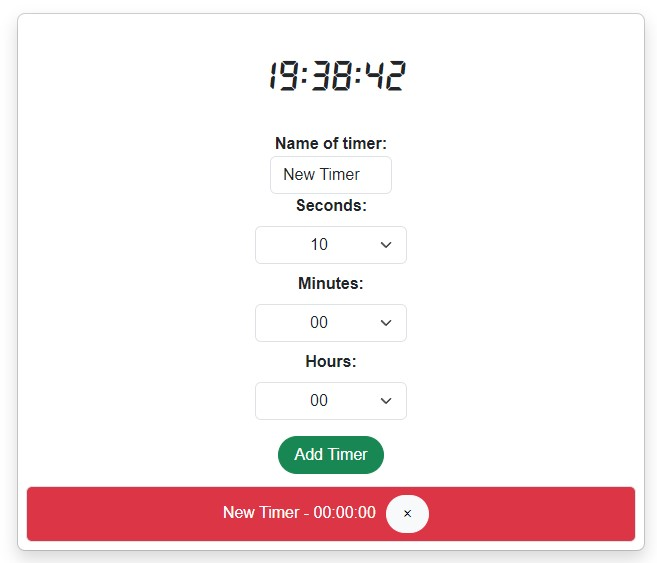
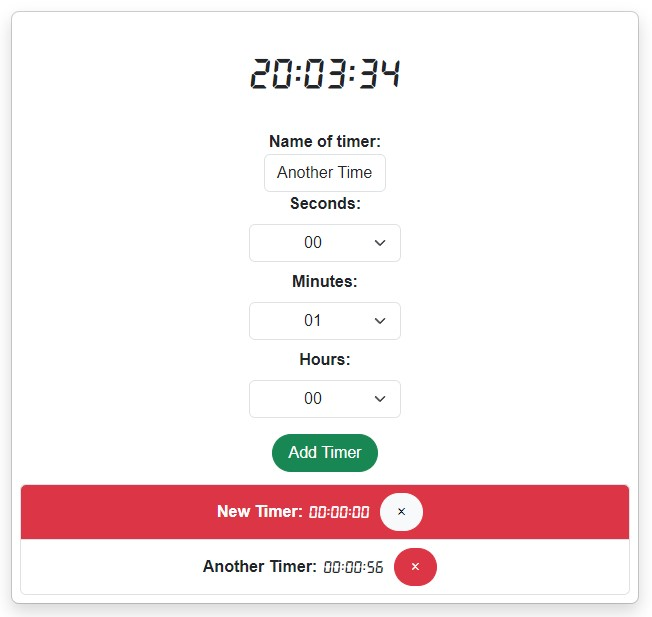
UI updates

diff --git a/src/Timer.js b/src/Timer.js
@@ -1,4 +1,5 @@
 import React, { useState, useEffect } from 'react';
+import './timer.css'
 
 const Timer = (props) => {
   const { timer, removeTimer } = props;
@@ -39,12 +40,12 @@ const Timer = (props) => {
     removeTimer(timer.id);
   };
 
-  const classNamesLi = `list-group-item ${timerState === 'expired' ? 'bg-danger' : ''}`;
+  const classNamesLi = `timer-list list-group-item ${timerState === 'expired' ? 'bg-danger' : ''}`;
   const classNamesBtn = `remove-button btn rounded-pill px-3 ${timerState === 'expired' ? 'btn-light' : 'btn-danger'}`
 
   return (
     <li className={classNamesLi} key={timer.id} style={timerState === 'expired' ? { color: 'white' } : {}}>
-      {timer.timerName} - {formatTime(remainingTime)}
+      <strong>{timer.timerName}: </strong><span>{formatTime(remainingTime)}</span>
       <button
         className={classNamesBtn}
         onClick={handleRemoveClick}

diff --git a/src/timer.css b/src/timer.css
@@ -1,0 +1,10 @@
+span {
+    font-family: 'clockicons';
+    margin-left: 6px;
+}
+
+.timer-list {
+    display: flex;
+    justify-content: center;
+    align-items: center;
+}
